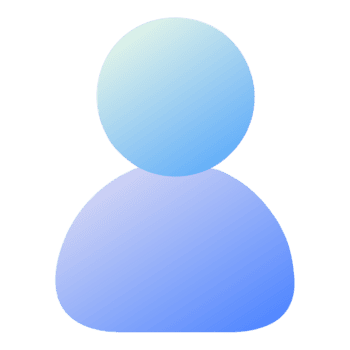
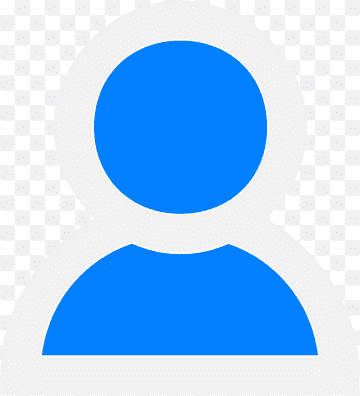
minor fixes

diff --git a/resources/views/leaves/index.blade.php b/resources/views/leaves/index.blade.php
@@ -17,7 +17,6 @@
         @endcan
     </div>
 
-
     <div class="bg-white rounded-xl shadow-sm border border-gray-100 overflow-hidden">
         <div class="overflow-x-auto">
             <table id="leaves" class="w-full text-left border-collapse">
@@ -78,7 +77,7 @@
                                             </form>
 
                                             <form action="{{ route('leaves.updateStatus', $leave->id) }}" method="POST"
-                                                onsubmit="return confirm('Are you sure you want to reject this leave?');">
+                                                onclick="confirmDelete(event)" id="reject-leave-form">
                                                 @csrf
                                                 <input type="hidden" name="status" value="rejected">
                                                 <button type="submit"
@@ -94,13 +93,6 @@
                                 @endif
                             </td>
                         </tr>
-                        {{-- @empty
-                        <tr>
-                            <td colspan="6" class="px-6 py-10 text-center text-gray-500">
-                                <i class="fa-regular fa-folder-open text-3xl text-gray-300 mb-2 block"></i>
-                                No leave requests found.
-                            </td>
-                        </tr> --}}
                     @endforeach
                 </tbody>
             </table>
@@ -108,8 +100,8 @@
     </div>
 
     <div id="applyLeaveModal"
-        class="fixed inset-0 z-50 hidden bg-gray-900 bg-opacity-50 flex items-center justify-center transition-opacity">
-        <div class="bg-white rounded-xl shadow-lg w-full max-w-lg mx-4 overflow-hidden">
+        class="fixed inset-0 z-50 bg-gray-900 bg-opacity-50 flex items-center justify-center opacity-0 invisible pointer-events-none transition-all duration-300 ease-out">
+        <div class="bg-white rounded-xl shadow-lg w-full max-w-lg mx-4 overflow-hidden transform scale-95 opacity-0 -translate-y-4 transition-all duration-300 ease-out">
             <div class="flex justify-between items-center bg-gray-50 px-6 py-4 border-b border-gray-100">
                 <h3 class="text-lg font-bold text-gray-800">Apply for Leave</h3>
                 <button type="button" onclick="toggleModal('applyLeaveModal')" class="text-gray-400 hover:text-gray-600">
@@ -174,10 +166,56 @@
 
 @push('scripts')
     <script>
+        // Simple Vanilla JS to toggle Tailwind Modals with transitions
         function toggleModal(modalID) {
             const modal = document.getElementById(modalID);
-            modal.classList.toggle('hidden');
+            if (modal) {
+                const isOpen = !modal.classList.contains('invisible');
+                if (isOpen) {
+                    closeModal(modal);
+                } else {
+                    openModal(modal);
+                }
+            }
         }
+
+        function openModal(modal) {
+            modal.classList.remove('invisible', 'opacity-0', 'pointer-events-none');
+            modal.classList.add('opacity-100', 'pointer-events-auto');
+            
+            const content = modal.querySelector('.bg-white');
+            if (content) {
+                content.classList.remove('scale-95', 'opacity-0', '-translate-y-4');
+                content.classList.add('scale-100', 'opacity-100', 'translate-y-0');
+            }
+        }
+
+        function closeModal(modal) {
+            modal.classList.remove('opacity-100', 'pointer-events-auto');
+            modal.classList.add('opacity-0', 'pointer-events-none');
+            
+            const content = modal.querySelector('.bg-white');
+            if (content) {
+                content.classList.remove('scale-100', 'opacity-100', 'translate-y-0');
+                content.classList.add('scale-95', 'opacity-0', '-translate-y-4');
+            }
+            
+            setTimeout(() => {
+                if (modal.classList.contains('opacity-0')) {
+                    modal.classList.add('invisible');
+                }
+            }, 300);
+        }
+
+        // Close modal when clicking outside (on the backdrop overlay)
+        window.addEventListener('click', function (e) {
+            const modalOverlays = document.querySelectorAll('.fixed.inset-0.z-50');
+            modalOverlays.forEach(modal => {
+                if (e.target === modal) {
+                    closeModal(modal);
+                }
+            });
+        });
     </script>
 
     <script>
@@ -185,22 +223,15 @@
             $('#leaves').DataTable({
                 destroy: true,
                 dom: '<"flex flex-col md:flex-row justify-between items-center gap-4 mb-4 p-4"<"flex items-center gap-3"lB>f>rt<"flex flex-col md:flex-row justify-between items-center gap-4 mt-4 p-4 border-t border-gray-100"<"flex flex-col sm:flex-row items-center gap-4 text-sm text-gray-600"i><"flex items-center"p>>',
-                buttons: [{
-                    extend: 'copy',
-                    className: 'bg-gray-100 hover:bg-gray-200 text-gray-700 px-3 py-1.5 text-sm font-medium rounded-lg border border-gray-300 mr-2 transition-colors'
-                },
-                {
-                    extend: 'excel',
-                    className: 'bg-green-50 hover:bg-green-100 text-green-700 px-3 py-1.5 text-sm font-medium rounded-lg border border-green-200 mr-2 transition-colors'
-                },
-                {
-                    extend: 'pdf',
-                    className: 'bg-red-50 hover:bg-red-100 text-red-700 px-3 py-1.5 text-sm font-medium rounded-lg border border-red-200 mr-2 transition-colors'
-                },
-                {
-                    extend: 'print',
-                    className: 'bg-blue-50 hover:bg-blue-100 text-blue-700 px-3 py-1.5 text-sm font-medium rounded-lg border border-blue-200 transition-colors'
-                }
+                buttons: [
+                    {
+                        extend: 'excel',
+                        className: 'bg-green-50 hover:bg-green-100 text-green-700 px-3 py-1.5 text-sm font-medium rounded-lg border border-green-200 mr-2 transition-colors'
+                    },
+                    {
+                        extend: 'pdf',
+                        className: 'bg-red-50 hover:bg-red-100 text-red-700 px-3 py-1.5 text-sm font-medium rounded-lg border border-red-200 mr-2 transition-colors'
+                    }
                 ],
                 pageLength: 10,
                 language: {
@@ -211,5 +242,26 @@
                 }
             });
         });
+    </script>
+
+    <script>
+        function confirmDelete(event) {
+            event.preventDefault();
+
+            Swal.fire({
+                title: 'Are you sure?',
+                text: "You cannot revert this! This will be marked as Rejected.",
+                icon: 'warning',
+                showCancelButton: true,
+                confirmButtonColor: '#ef4444', // bg-red-500
+                cancelButtonColor: '#4b5563', // bg-gray-600
+                confirmButtonText: 'Yes, reject leave!',
+                cancelButtonText: 'Cancel'
+            }).then((result) => {
+                if (result.isConfirmed) {
+                    document.getElementById('reject-leave-form').submit();
+                }
+            });
+        }
     </script>
 @endpush

diff --git a/resources/views/leave_types/index.blade.php b/resources/views/leave_types/index.blade.php
@@ -91,8 +91,8 @@
                         </tr>
 
                         <div id="editLeaveTypeModal{{ $type->id }}"
-                            class="fixed inset-0 z-50 hidden bg-gray-900 bg-opacity-50 flex items-center justify-center transition-opacity">
-                            <div class="bg-white rounded-xl shadow-lg w-full max-w-md mx-4 overflow-hidden">
+                            class="fixed inset-0 z-50 bg-gray-900 bg-opacity-50 flex items-center justify-center opacity-0 invisible pointer-events-none transition-all duration-300 ease-out">
+                            <div class="bg-white rounded-xl shadow-lg w-full max-w-md mx-4 overflow-hidden transform scale-95 opacity-0 -translate-y-4 transition-all duration-300 ease-out">
                                 <div
                                     class="flex justify-between items-center bg-gray-50 px-6 py-4 border-b border-gray-100">
                                     <h3 class="text-lg font-bold text-gray-800">Edit Leave Type</h3>
@@ -151,8 +151,8 @@
     </div>
 
     <div id="addLeaveTypeModal"
-        class="fixed inset-0 z-50 hidden bg-gray-900 bg-opacity-50 flex items-center justify-center transition-opacity">
-        <div class="bg-white rounded-xl shadow-lg w-full max-w-md mx-4 overflow-hidden">
+        class="fixed inset-0 z-50 bg-gray-900 bg-opacity-50 flex items-center justify-center opacity-0 invisible pointer-events-none transition-all duration-300 ease-out">
+        <div class="bg-white rounded-xl shadow-lg w-full max-w-md mx-4 overflow-hidden transform scale-95 opacity-0 -translate-y-4 transition-all duration-300 ease-out">
             <div class="flex justify-between items-center bg-gray-50 px-6 py-4 border-b border-gray-100">
                 <h3 class="text-lg font-bold text-gray-800">Add New Leave Type</h3>
                 <button type="button" onclick="toggleModal('addLeaveTypeModal')" class="text-gray-400 hover:text-gray-600">
@@ -197,11 +197,56 @@
 
 @push('scripts')
     <script>
-        // Simple Vanilla JS to toggle Tailwind Modals
+        // Simple Vanilla JS to toggle Tailwind Modals with transitions
         function toggleModal(modalID) {
             const modal = document.getElementById(modalID);
-            modal.classList.toggle('hidden');
+            if (modal) {
+                const isOpen = !modal.classList.contains('invisible');
+                if (isOpen) {
+                    closeModal(modal);
+                } else {
+                    openModal(modal);
+                }
+            }
         }
+
+        function openModal(modal) {
+            modal.classList.remove('invisible', 'opacity-0', 'pointer-events-none');
+            modal.classList.add('opacity-100', 'pointer-events-auto');
+            
+            const content = modal.querySelector('.bg-white');
+            if (content) {
+                content.classList.remove('scale-95', 'opacity-0', '-translate-y-4');
+                content.classList.add('scale-100', 'opacity-100', 'translate-y-0');
+            }
+        }
+
+        function closeModal(modal) {
+            modal.classList.remove('opacity-100', 'pointer-events-auto');
+            modal.classList.add('opacity-0', 'pointer-events-none');
+            
+            const content = modal.querySelector('.bg-white');
+            if (content) {
+                content.classList.remove('scale-100', 'opacity-100', 'translate-y-0');
+                content.classList.add('scale-95', 'opacity-0', '-translate-y-4');
+            }
+            
+            setTimeout(() => {
+                if (modal.classList.contains('opacity-0')) {
+                    modal.classList.add('invisible');
+                }
+            }, 300);
+        }
+
+        // Close modal when clicking outside (on the backdrop overlay)
+        window.addEventListener('click', function (e) {
+            const modalOverlays = document.querySelectorAll('.fixed.inset-0.z-50');
+            modalOverlays.forEach(modal => {
+                if (e.target === modal) {
+                    closeModal(modal);
+                }
+            });
+        });
 
         // SweetAlert for Delete Confirmation
         function confirmDelete(id) {

diff --git a/resources/views/layouts/header.blade.php b/resources/views/layouts/header.blade.php
@@ -126,11 +126,13 @@
 
         /* Prevent double-tap hover bug on touch screens/mobile devices */
         @media (hover: none) {
+
             #sidebar-nav a:hover,
             #sidebar-nav summary:hover {
                 background-color: transparent !important;
                 color: inherit !important;
             }
+
             .dark #sidebar-nav a:hover,
             .dark #sidebar-nav summary:hover {
                 background-color: transparent !important;
@@ -172,7 +174,8 @@
                 </li>
 
                 <li class="relative pr-3">
-                    <a class="flex items-center gap-2 cursor-pointer py-2" id="profile-dropdown-trigger" href="javascript:void(0);">
+                    <a class="flex items-center gap-2 cursor-pointer py-2" id="profile-dropdown-trigger"
+                        href="javascript:void(0);">
                         @if (Auth::user()->profile)
                             <img src="{{ auth()->user()->profile }}" alt="Profile"
                                 class="w-8 h-8 rounded-full object-cover border border-gray-200">
@@ -182,7 +185,7 @@
                         @endif
                         <span
                             class="hidden md:block text-sm font-semibold text-gray-700 hover:text-blue-600 dark:text-zinc-300 dark:hover:text-blue-400 transition-colors">
-                            {{ Auth::user()->name }}
+                            {{ explode(' ', Auth::user()->name)[0] }}
                         </span>
                     </a>
 
@@ -193,7 +196,7 @@
                             <a class="flex items-center gap-3 px-4 py-2 text-sm text-gray-700 dark:text-zinc-300 hover:bg-gray-100 dark:hover:bg-zinc-800 hover:text-blue-600 dark:hover:text-blue-400 transition-colors"
                                 href="{{ route('profile.index') }}">
                                 <i class="fa-solid fa-user-gear text-lg"></i>
-                                <span>Profile</span>
+                                <span>My Profile</span>
                             </a>
                         </li>
 

diff --git a/resources/views/employees/show.blade.php b/resources/views/employees/show.blade.php
@@ -122,7 +122,7 @@
                     <div
                         class="flex flex-col items-center justify-center p-4 bg-gray-50 dark:bg-zinc-950/40 rounded-lg border border-gray-100 dark:border-zinc-800">
                         <img src="{{ $employee->signature }}" alt="Signature"
-                            class="max-h-16 object-contain mix-blend-multiply dark:mix-blend-screen dark:invert"
+                            class="max-h-16 object-contain mix-blend-multiply dark:mix-blend-screen"
                             draggable="false">
                     </div>
                 </div>
@@ -326,9 +326,6 @@
 
         </div>
     </div>
-
-
-
 @endsection
 
 @push('scripts')
@@ -338,7 +335,7 @@
 
             Swal.fire({
                 title: 'Are you sure?',
-                text: "You won't be able to revert this! All employee records will be archived/deleted.",
+                text: "You can revert this! All employee records will be archived/deleted.",
                 icon: 'warning',
                 showCancelButton: true,
                 confirmButtonColor: '#ef4444', // bg-red-500

diff --git a/resources/views/employees/edit.blade.php b/resources/views/employees/edit.blade.php
@@ -202,7 +202,7 @@
                     <div
                         class="flex items-center gap-4 mb-3 p-3 bg-gray-50 dark:bg-zinc-950/40 rounded-lg border border-gray-200 dark:border-zinc-800">
                         <img src="{{ $employee->signature }}" alt="Current Signature"
-                            class="w-16 h-16 object-contain border-2 border-gray-200 dark:border-zinc-800 bg-white dark:bg-transparent mix-blend-multiply dark:mix-blend-screen dark:invert"
+                            class="w-16 h-16 object-contain border-2 border-gray-200 dark:border-zinc-800 bg-white dark:bg-transparent mix-blend-multiply dark:mix-blend-screen"
                             draggable="false">
                         <div>
                             <p class="text-sm font-medium text-gray-700 dark:text-zinc-300">Current Signature</p>